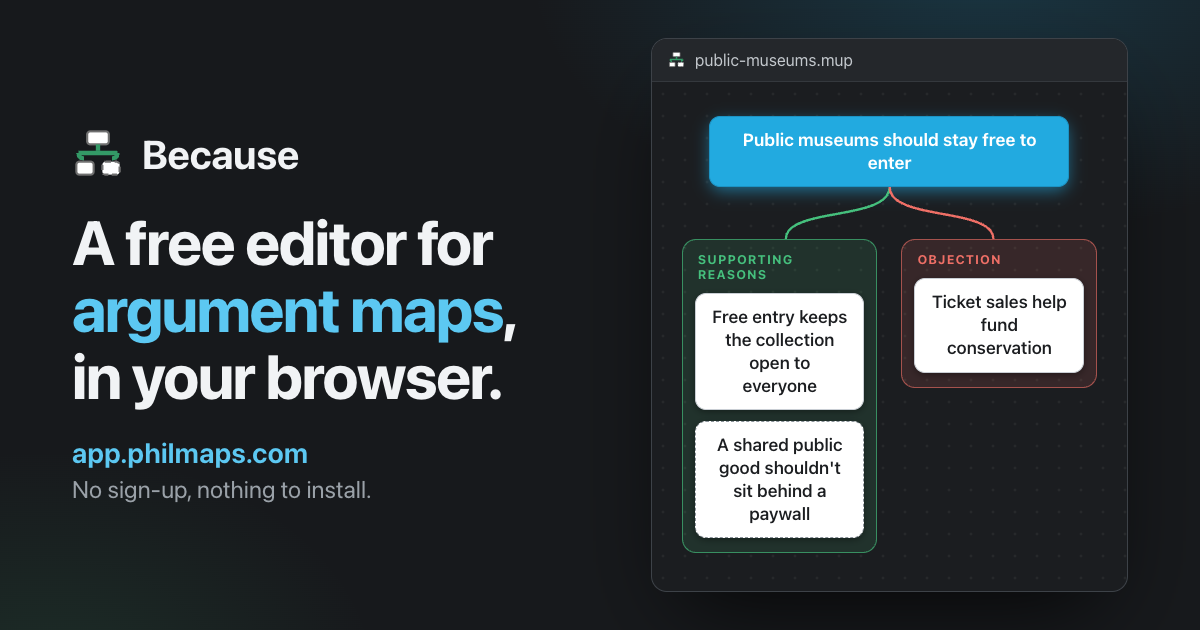
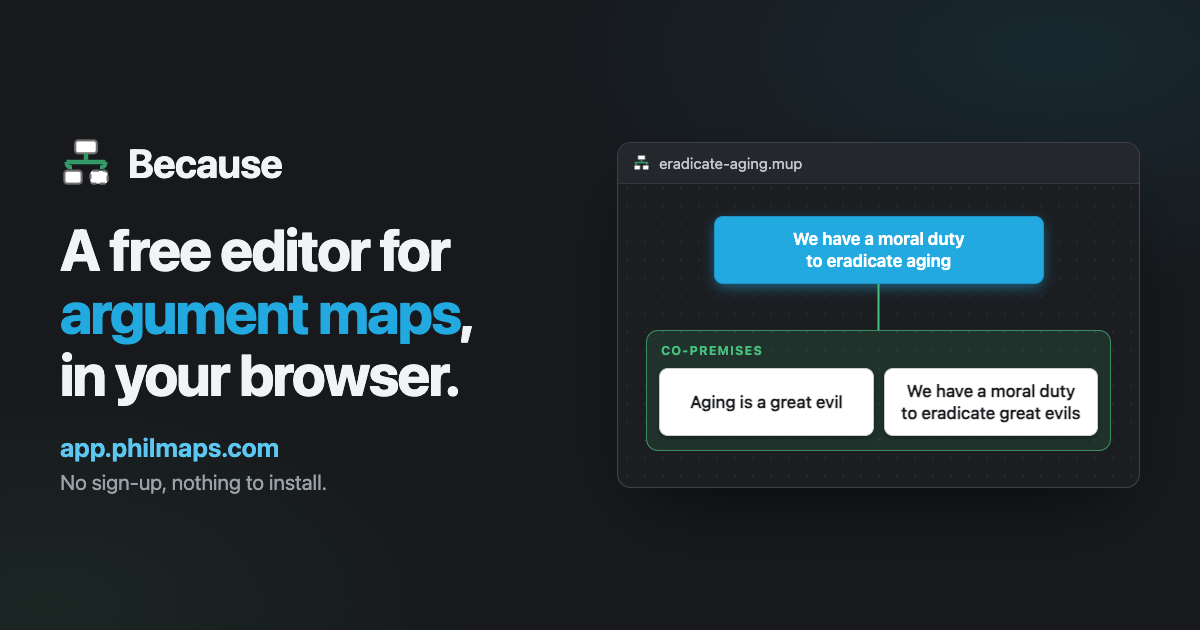
Landing hero: the aging argument, and an og card that matches
The museums map showed a reason and an objection but not the distinction
the page's own legend leads with, so it becomes the top of the biological
immortality argument — a conclusion and the two co-premises that jointly
support it — the same map philmaps.com now opens with.

Structurally that is one bracket rather than two, so the branches grid
drops to a single column, the fanned pair of curved connectors becomes
one straight stem, and the two co-premises sit side by side inside the
bracket: their adjacency is what the grouping means. Claim text is
balanced (text-wrap: balance) so a box never strands its last word.

site/og.png showed the old map to anyone sharing the link. It is
regenerated from docs/og-card.html, added here so the card can be
reshot whenever the hero changes rather than rebuilt from memory;
docs/ is not deployed.

Measured at 1440/900/560/390 in Chrome: no horizontal overflow, and the
two claims stay side by side down to 390px. All seven e2e suites pass.

diff --git a/docs/og-card.html b/docs/og-card.html
@@ -1,0 +1,162 @@
+<!DOCTYPE html>
+<html lang="en">
+<head>
+<meta charset="utf-8">
+<title>Because — og:image source</title>
+<!--
+  Source for site/og.png, the 1200x630 social card. Not part of the
+  deployed site (deploy.sh stages app/, samples/ and site/ only) — it lives
+  here so the card can be regenerated when the landing hero changes, which
+  is the one thing that puts the two out of step.
+
+  Regenerate:
+    node -e "…playwright… page.setViewportSize({width:1200,height:630});
+             page.goto('file://…/docs/og-card.html');
+             page.screenshot({path:'site/og.png'})"
+  or any headless shot of this file at 1200x630, deviceScaleFactor 1.
+
+  The map below mirrors the hero in site/index.html; keep the two in step.
+-->
+<style>
+	:root {
+		--bg: #17191c;
+		--bg-canvas: #1b1d20;
+		--border-strong: #3d4248;
+		--text-strong: #f1f3f5;
+		--muted: #9aa1a8;
+		--accent: #5cc8f2;
+		--green: #45c07d;
+		--radius: 14px;
+		--font: -apple-system, BlinkMacSystemFont, 'Segoe UI', 'Helvetica Neue', Helvetica, Arial, sans-serif;
+	}
+	* { box-sizing: border-box; }
+	html, body { margin: 0; padding: 0; }
+	body {
+		width: 1200px;
+		height: 630px;
+		background:
+			radial-gradient(900px 420px at 88% 8%, rgba(34,170,224,0.10), transparent 60%),
+			radial-gradient(700px 380px at 4% 96%, rgba(69,192,125,0.08), transparent 62%),
+			var(--bg);
+		color: var(--text-strong);
+		font-family: var(--font);
+		display: grid;
+		grid-template-columns: 1fr 1fr;
+		align-items: center;
+		gap: 34px;
+		padding: 56px 60px;
+	}
+	.brand { display: flex; align-items: center; gap: 16px; margin-bottom: 30px; }
+	.brand-name { font-size: 40px; font-weight: 700; letter-spacing: -0.02em; }
+	h1 {
+		margin: 0 0 26px;
+		font-size: 58px;
+		line-height: 1.08;
+		letter-spacing: -0.03em;
+		font-weight: 750;
+	}
+	h1 .hl { color: #22aae0; }
+	.url { color: var(--accent); font-size: 26px; font-weight: 650; margin: 0 0 8px; }
+	.sub { color: var(--muted); font-size: 21px; margin: 0; }
+
+	/* ---- the hero map, mirroring site/index.html ---- */
+	.canvas {
+		position: relative;
+		background: var(--bg-canvas);
+		border: 1px solid var(--border-strong);
+		border-radius: var(--radius);
+		box-shadow: 0 30px 70px -30px rgba(0,0,0,0.75), 0 0 0 1px rgba(255,255,255,0.02) inset;
+		overflow: hidden;
+	}
+	.grid {
+		position: absolute;
+		inset: 0;
+		background-image: radial-gradient(rgba(255,255,255,0.05) 1px, transparent 1.4px);
+		background-size: 18px 18px;
+	}
+	.canvas-bar {
+		position: relative;
+		display: flex;
+		align-items: center;
+		gap: 9px;
+		padding: 11px 15px;
+		background: #24272b;
+		border-bottom: 1px solid #34383d;
+		font-size: 15px;
+		color: #c3c8cd;
+	}
+	.map { position: relative; padding: 32px 28px 36px; }
+	.node {
+		background: #fff;
+		color: #1b1d20;
+		border: 1px solid #c9ced4;
+		border-radius: 9px;
+		padding: 11px 15px;
+		font-size: 17px;
+		font-weight: 550;
+		line-height: 1.3;
+		text-align: center;
+		text-wrap: balance;
+		box-shadow: 0 2px 6px rgba(0,0,0,0.35);
+	}
+	.node.root {
+		background: #22aae0;
+		border-color: #1c93c4;
+		color: #fff;
+		font-weight: 650;
+		box-shadow: 0 4px 14px -2px rgba(34,170,224,0.6);
+	}
+	.conclusion { max-width: 330px; margin: 0 auto; }
+	.links { display: block; width: 100%; height: 46px; }
+	.links .link { fill: none; stroke: var(--green); stroke-width: 2; stroke-linecap: round; }
+	.group {
+		border-radius: 12px;
+		padding: 12px 12px 14px;
+		border: 1.5px solid rgba(69,192,125,0.65);
+		background: rgba(69,192,125,0.13);
+	}
+	.glabel {
+		font-size: 12.5px;
+		font-weight: 700;
+		letter-spacing: 0.09em;
+		text-transform: uppercase;
+		color: var(--green);
+		margin: 0 2px 10px;
+	}
+	.nodes { display: grid; grid-template-columns: 1fr 1fr; gap: 10px; }
+	.nodes .node { display: flex; align-items: center; justify-content: center; }
+</style>
+</head>
+<body>
+<div>
+	<div class="brand">
+		<svg aria-hidden="true" viewBox="0 0 24 24" width="52" height="52"><rect x="7" y="2" width="10" height="6" rx="1.5" fill="#fff" stroke="#707070"/><path d="M12 8v3" stroke="#339966" stroke-width="2"/><path d="M3 12h18M3 12q0 2.5 2.5 2.5M21 12q0 2.5-2.5 2.5" stroke="#339966" stroke-width="2" fill="none"/><rect x="2" y="16" width="8" height="6" rx="1.5" fill="#fff" stroke="#707070"/><rect x="14" y="16" width="8" height="6" rx="1.5" fill="#fff" stroke="#707070" stroke-dasharray="2.5,1.6"/></svg>
+		<span class="brand-name">Because</span>
+	</div>
+	<h1>A free editor for<br><span class="hl">argument maps</span>,<br>in your browser.</h1>
+	<p class="url">app.philmaps.com</p>
+	<p class="sub">No sign-up, nothing to install.</p>
+</div>
+
+<div class="canvas">
+	<div class="grid"></div>
+	<div class="canvas-bar">
+		<svg aria-hidden="true" viewBox="0 0 24 24" width="17" height="17"><rect x="7" y="2" width="10" height="6" rx="1.5" fill="#fff" stroke="#707070"/><path d="M12 8v3" stroke="#339966" stroke-width="2"/><path d="M3 12h18M3 12q0 2.5 2.5 2.5M21 12q0 2.5-2.5 2.5" stroke="#339966" stroke-width="2" fill="none"/><rect x="2" y="16" width="8" height="6" rx="1.5" fill="#fff" stroke="#707070"/><rect x="14" y="16" width="8" height="6" rx="1.5" fill="#fff" stroke="#707070" stroke-dasharray="2.5,1.6"/></svg>
+		<span>eradicate-aging.mup</span>
+	</div>
+	<div class="map">
+		<div class="node root conclusion">We have a moral duty to eradicate aging</div>
+		<svg class="links" viewBox="0 0 100 46" preserveAspectRatio="none">
+			<path class="link" d="M50 0 L50 46" vector-effect="non-scaling-stroke"/>
+		</svg>
+		<div class="group">
+			<div class="glabel">Co-premises</div>
+			<div class="nodes">
+				<div class="node">Aging is a great evil</div>
+				<div class="node">We have a moral duty to eradicate great evils</div>
+			</div>
+		</div>
+	</div>
+</div>
+</body>
+</html>

diff --git a/site/index.html b/site/index.html
@@ -253,6 +253,9 @@
 		font-weight: 550;
 		line-height: 1.3;
 		text-align: center;
+		/* even the two lines out rather than stranding a last word
+		   ("…to eradicate / aging."); ignored where unsupported */
+		text-wrap: balance;
 		box-shadow: 0 2px 6px rgba(0,0,0,0.35);
 	}
 	.node.implicit { border-style: dashed; border-color: #8a9299; }
@@ -274,10 +277,19 @@
 
 	.branches {
 		display: grid;
-		grid-template-columns: 1fr 1fr;
 		gap: 20px;
 	}
 	.branch { display: flex; flex-direction: column; align-items: stretch; }
+	/* co-premises sit side by side inside one bracket — that adjacency is
+	   the thing the grouping means, so they never stack while there is
+	   width for both (see the narrow-screen rule at the end) */
+	.group .nodes {
+		display: grid;
+		grid-template-columns: 1fr 1fr;
+		gap: 9px;
+		align-items: stretch;
+	}
+	.group .nodes .node { display: flex; align-items: center; justify-content: center; }
 
 	.group {
 		border-radius: 12px;
@@ -457,10 +469,8 @@
 		.map .conclusion { opacity: 0; transform: translateY(-6px); animation: rise 0.45s ease 0.5s forwards; }
 		.links .link { opacity: 0; animation: fadein 0.45s ease forwards; }
 		.links .link.support { animation-delay: 0.85s; }
-		.links .link.object { animation-delay: 1s; }
 		.branch { opacity: 0; transform: translateY(10px); animation: rise 0.5s ease forwards; }
 		.branch.support { animation-delay: 1.05s; }
-		.branch.object { animation-delay: 1.2s; }
 		@keyframes fadein { to { opacity: 1; } }
 
 		/* sections fade up as they scroll into view (JS adds the classes;
@@ -526,27 +536,22 @@
 			<div class="grid"></div>
 			<div class="canvas-bar">
 				<svg viewBox="0 0 24 24" width="15" height="15"><rect x="7" y="2" width="10" height="6" rx="1.5" fill="#fff" stroke="#707070"/><path d="M12 8v3" stroke="#339966" stroke-width="2"/><path d="M3 12h18M3 12q0 2.5 2.5 2.5M21 12q0 2.5-2.5 2.5" stroke="#339966" stroke-width="2" fill="none"/><rect x="2" y="16" width="8" height="6" rx="1.5" fill="#fff" stroke="#707070"/><rect x="14" y="16" width="8" height="6" rx="1.5" fill="#fff" stroke="#707070" stroke-dasharray="2.5,1.6"/></svg>
-				<span class="file">public-museums.mup</span>
+				<span class="file">eradicate-aging.mup</span>
 				<span class="moon"><svg viewBox="0 0 24 24" width="14" height="14" fill="currentColor"><path d="M21 12.8A9 9 0 1 1 11.2 3a7 7 0 0 0 9.8 9.8z"/></svg></span>
 			</div>
 			<div class="map">
-				<div class="node root conclusion">Public museums should stay free to enter</div>
+				<div class="node root conclusion">We have a moral duty to eradicate aging</div>
 				<svg class="links" viewBox="0 0 100 46" preserveAspectRatio="none">
-					<path class="link support" d="M50 0 C50 30 25 18 25 46" vector-effect="non-scaling-stroke"/>
-					<path class="link object" d="M50 0 C50 30 75 18 75 46" vector-effect="non-scaling-stroke"/>
+					<path class="link support" d="M50 0 L50 46" vector-effect="non-scaling-stroke"/>
 				</svg>
 				<div class="branches">
 					<div class="branch support">
 						<div class="group support">
-							<div class="glabel">Supporting reasons</div>
-							<div class="node">Free entry keeps the collection open to everyone</div>
-							<div class="node implicit">A shared public good shouldn't sit behind a paywall</div>
-						</div>
-					</div>
-					<div class="branch object">
-						<div class="group object">
-							<div class="glabel">Objection</div>
-							<div class="node">Ticket sales help fund conservation</div>
+							<div class="glabel">Co-premises</div>
+							<div class="nodes">
+								<div class="node">Aging is a great evil</div>
+								<div class="node">We have a moral duty to eradicate great evils</div>
+							</div>
 						</div>
 					</div>
 				</div>
